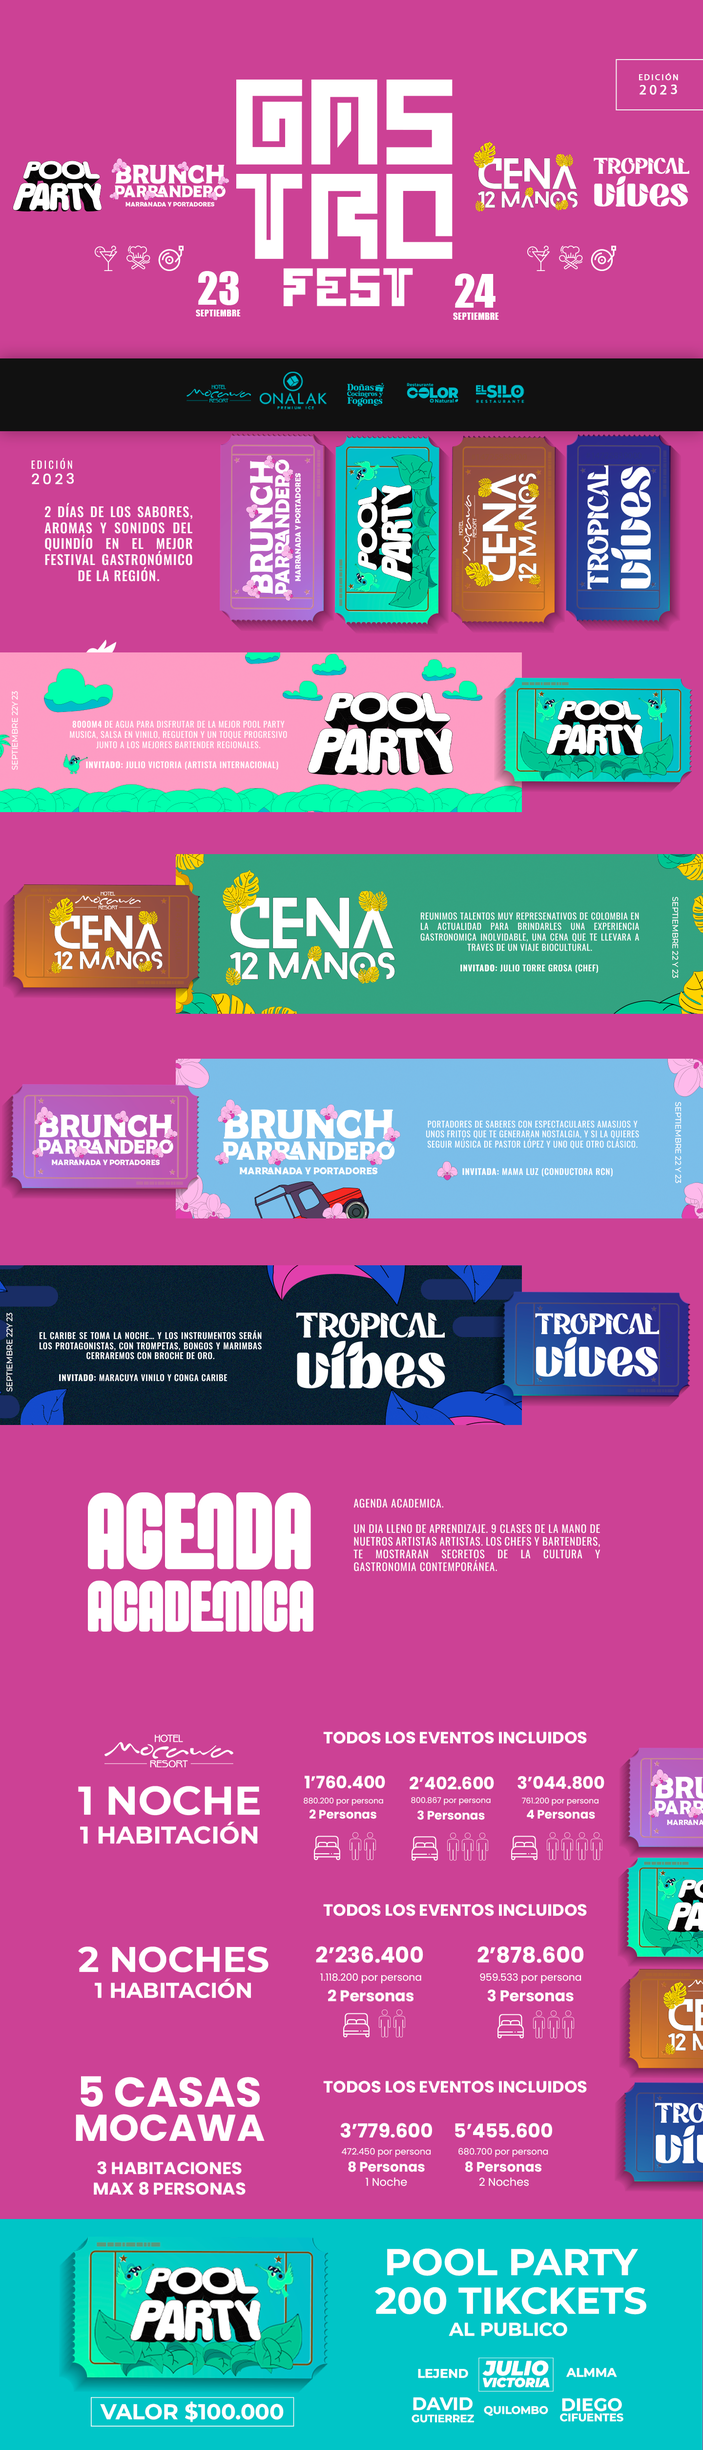
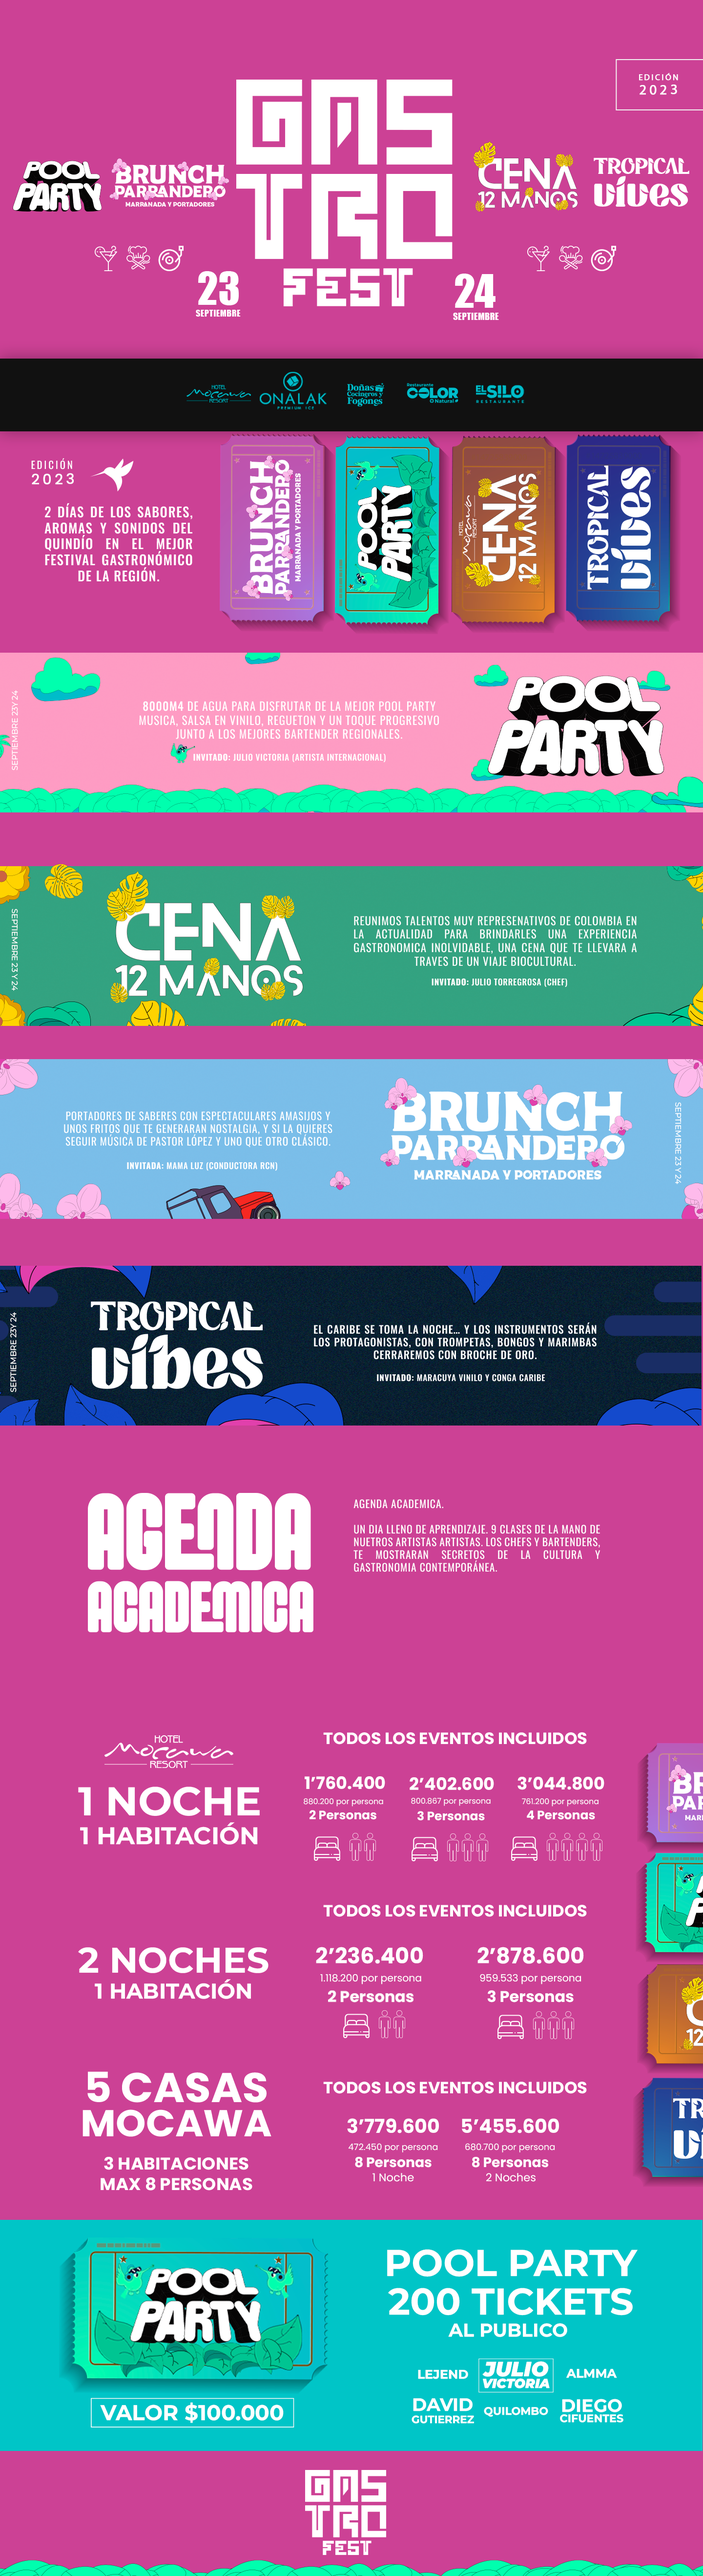
changing desktop bg img

diff --git a/src/app/page.module.css b/src/app/page.module.css
@@ -3,7 +3,7 @@
   background-size: contain;
   background-repeat: no-repeat;
   /* Otros estilos que quieras aplicar al contenedor */
-  height: 340rem;
+  height: 323rem;
   margin: 0;
   background-color: #cc4195;
   scroll-behavior: smooth;

diff --git a/src/app/components/MyComponent.module.css b/src/app/components/MyComponent.module.css
@@ -69,10 +69,6 @@
     font-size: 1.5rem;
   }
 
-  .goDownBtn {
-    padding: 1rem;
-  }
-
   .goDownBtn img {
     height: 65px;
     width: 65px;
